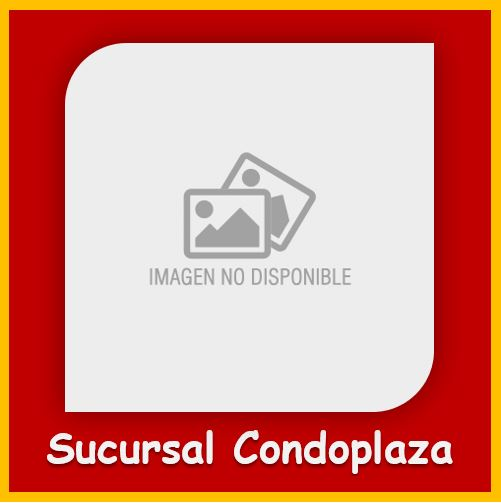
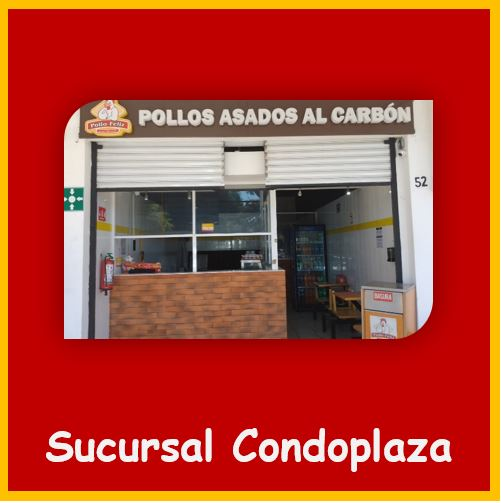
imagenes

diff --git a/empleado.html b/empleado.html
@@ -73,7 +73,7 @@
             <hr>            
             <h1>Oblatos    /    Guadalupe</h1>
             <img src="/Empleado mes/Oblatos.JPG" width="45%" alt="Pollo Feliz GDL">
-            <img src="/Empleado mes/Febrero.JPG" width="45%" alt="Pollo Feliz GDL">
+            <img src="/Empleado mes/Guadalupa.JPG" width="45%" alt="Pollo Feliz GDL">
             <hr>            
             <h1>Tetlán    /    Sauz</h1>
             <img src="/Empleado mes/Tetlan.JPG" width="45%" alt="Pollo Feliz GDL">
@@ -100,7 +100,7 @@
             <img src="/Empleado mes/El Rosario.JPG" width="45%" alt="Pollo Feliz GDL">
             <hr>
             <h1>Condoplaza    /    Ávila Camacho</h1>
-            <img src="/Empleado mes/Febrero.JPG" width="45%" alt="Pollo Feliz GDL">
+            <img src="/Empleado mes/Condoplaza.JPG" width="45%" alt="Pollo Feliz GDL">
             <img src="/Empleado mes/Avila camacho.JPG" width="45%" alt="Pollo Feliz GDL">
             <hr>            
             <h1>Magnolias    /    El Castillo</h1>
